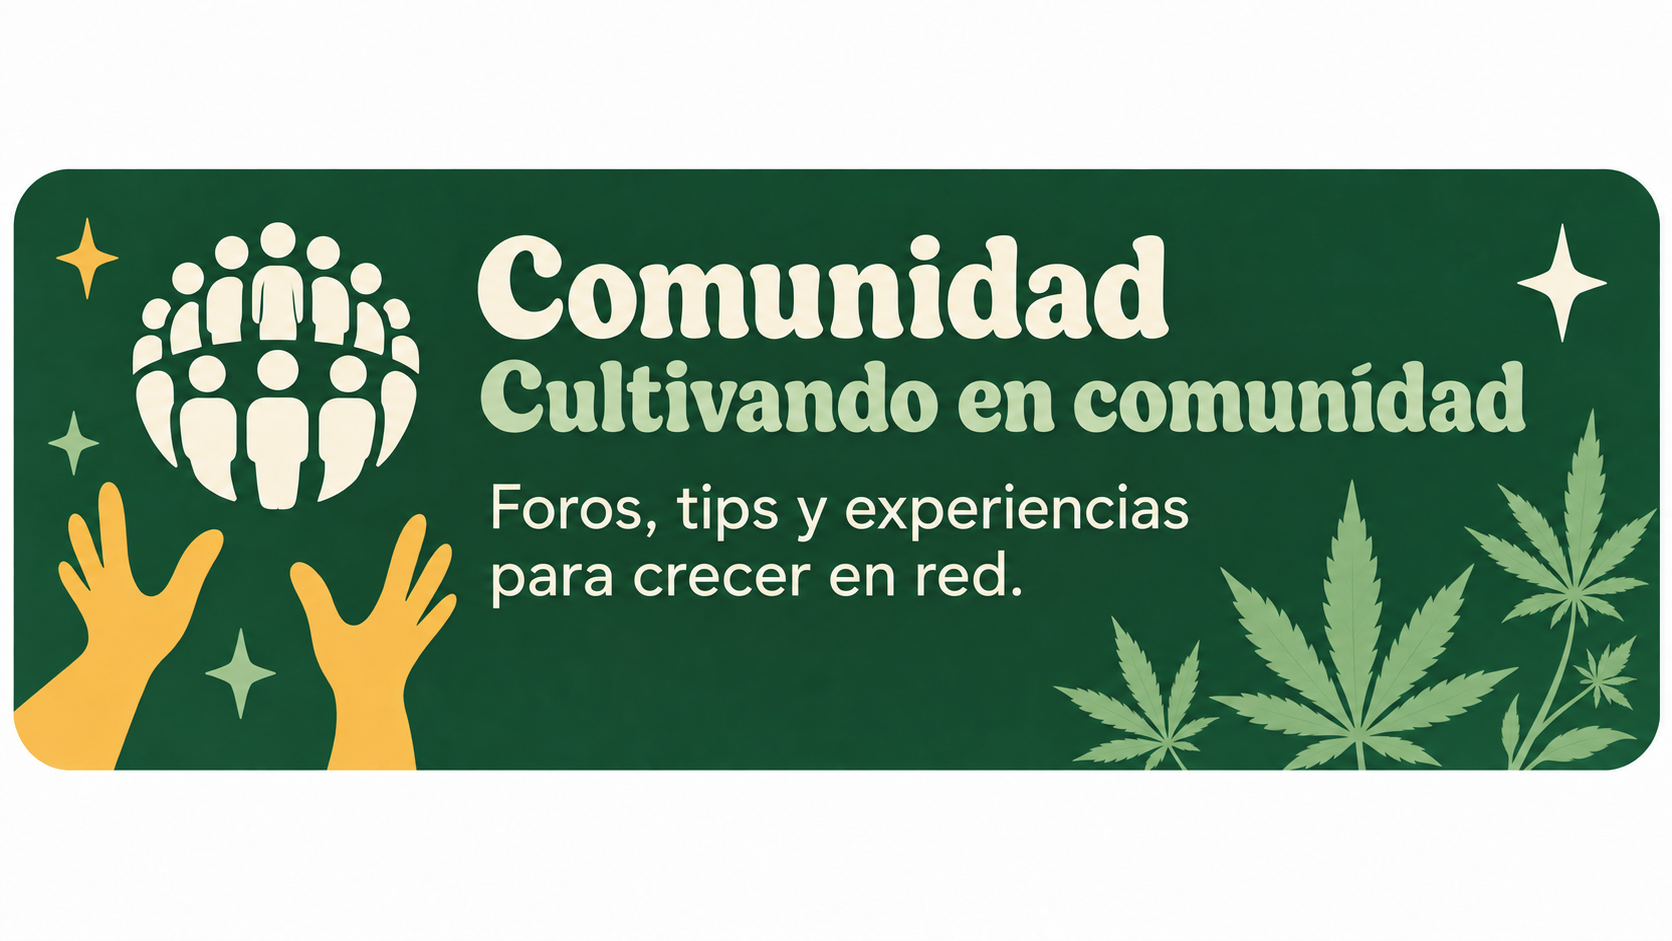
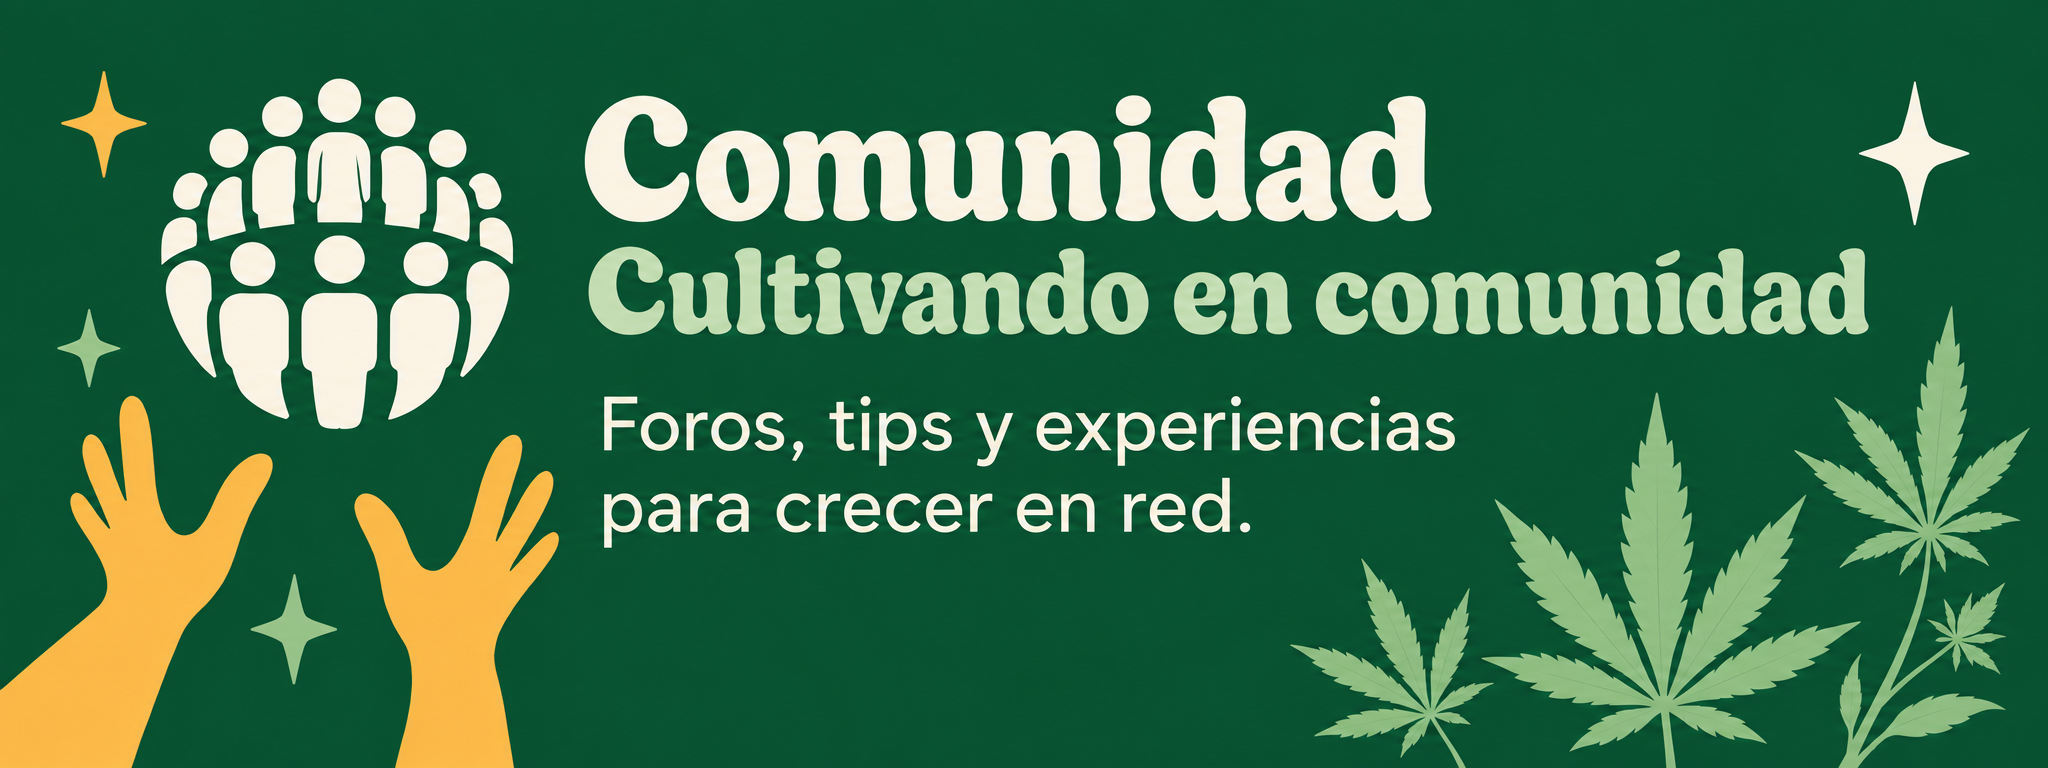
fix: reemplazar imagenes fundacion, comunidad y doctor por versiones sin borde blanco + revertir CSS hack

diff --git a/src/pages/Home.tsx b/src/pages/Home.tsx
@@ -152,19 +152,19 @@ export default function Home() {
           <Link to="/notas" className="relative min-h-[178px] overflow-hidden rounded-2xl sm:col-span-2">
             <picture>
               <source media="(max-width: 767px)" srcSet="/images/home/fundacion-vertical.png" />
-              <img src="/images/home/fundacion-horizontal.png" alt="Fundación — Comunidad de cultivadoras" width="1200" height="600" loading="lazy" decoding="async" className="absolute -inset-4 h-[calc(100%+32px)] w-[calc(100%+32px)] object-cover" />
+              <img src="/images/home/fundacion-horizontal.png" alt="Fundación — Comunidad de cultivadoras" width="1200" height="600" loading="lazy" decoding="async" className="absolute inset-0 h-full w-full object-cover" />
             </picture>
           </Link>
           <div className="relative min-h-[160px] overflow-hidden rounded-2xl">
             <picture>
               <source media="(max-width: 767px)" srcSet="/images/home/comunidad-vertical.png" />
-              <img src="/images/home/comunidad-horizontal.png" alt="Comunidad — Cultivando en comunidad" width="600" height="400" loading="lazy" decoding="async" className="absolute -inset-4 h-[calc(100%+32px)] w-[calc(100%+32px)] object-cover" />
+              <img src="/images/home/comunidad-horizontal.png" alt="Comunidad — Cultivando en comunidad" width="600" height="400" loading="lazy" decoding="async" className="absolute inset-0 h-full w-full object-cover" />
             </picture>
           </div>
           <button type="button" onClick={() => window.dispatchEvent(new CustomEvent("cls:open-bot"))} className="relative min-h-[160px] overflow-hidden rounded-2xl text-left transition hover:-translate-y-0.5 hover:shadow-lift">
             <picture>
               <source media="(max-width: 767px)" srcSet="/images/home/doctor-vertical.png" />
-              <img src="/images/home/doctor-horizontal.png" alt="Plant Doctor — Diagnóstico en vivo" width="600" height="400" loading="lazy" decoding="async" className="absolute -inset-4 h-[calc(100%+32px)] w-[calc(100%+32px)] object-cover" />
+              <img src="/images/home/doctor-horizontal.png" alt="Plant Doctor — Diagnóstico en vivo" width="600" height="400" loading="lazy" decoding="async" className="absolute inset-0 h-full w-full object-cover" />
             </picture>
           </button>
         </div>
